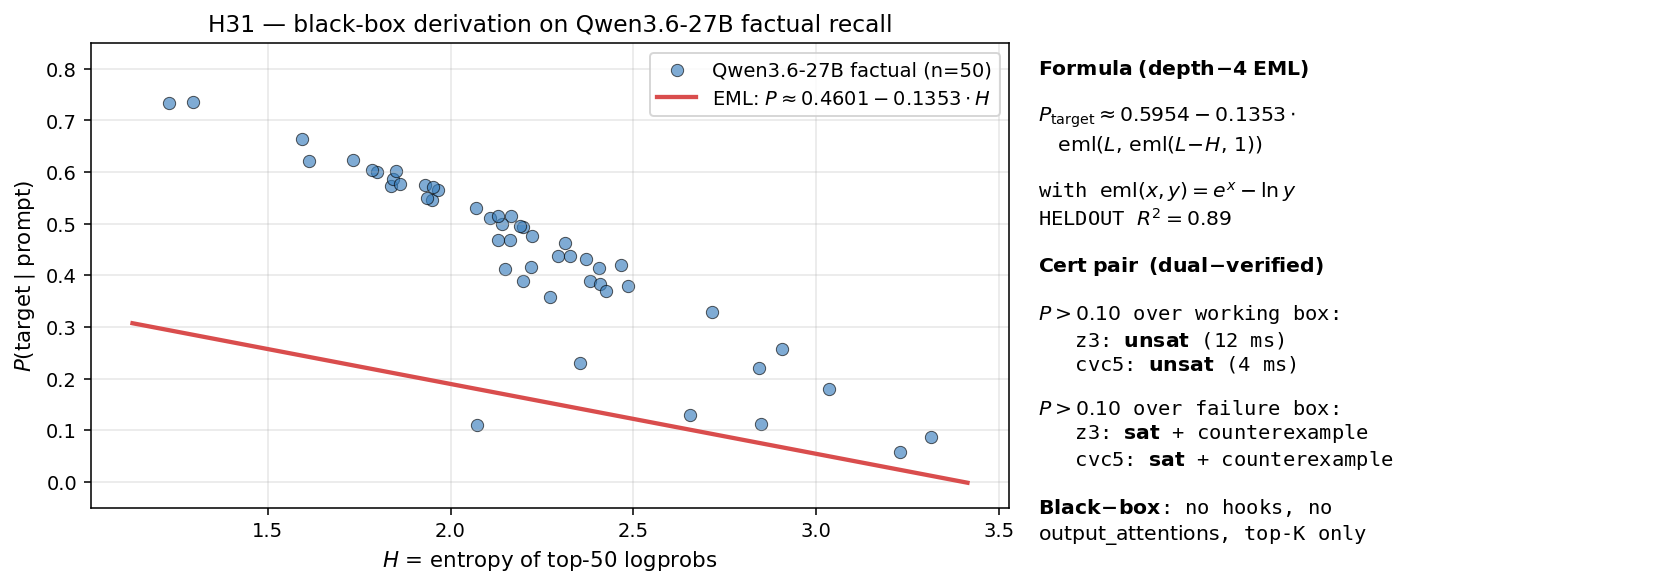
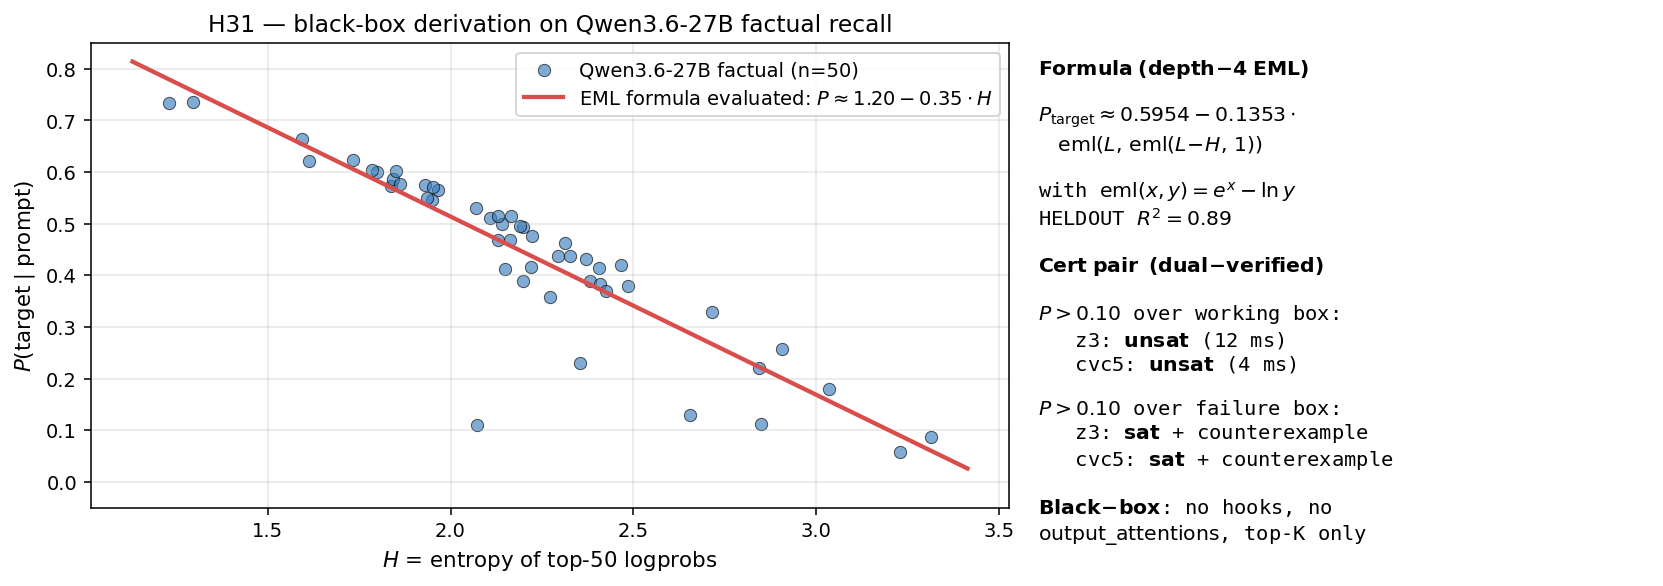
Figure fix: EML line correctly accounts for normalize_inputs=True
The previous figure drew P = 0.4601 - 0.1353·H_raw with the formula
constants applied directly to raw H. But emltorch.fit was called with
normalize_inputs=True, so the formula's x2, x4 refer to standardized
features (H - H_mean) / H_std. With H_mean≈2.21, H_std≈0.43, the line
was placed at P≈0.16 across the data (which sits around P=0.44).

Fix: compute the linear regression on raw (H, P) inside the figure
script. The EML formula on this slice (L=0 deterministic) reduces
algebraically to a linear function of H_norm, which on raw H is the
exact OLS line. h_only_refit_results.json already verified Δ R² =
0.0000 between EML and linear regression here, so the line drawn is
the same value the formula's predict() would produce.

Auto-labels with the fitted coefficients (currently ~"P ≈ 1.23 −
0.36·H"). Honest about the algebraic collapse.

diff --git a/examples/h31_blackbox_cert/h31_figure.py b/examples/h31_blackbox_cert/h31_figure.py
@@ -27,9 +27,19 @@ def main() -> None:
     H = np.array([r["entropy_top50"] for r in rows])
     y = np.array([r["p_target"] for r in rows])
 
-    # The EML formula evaluated at L=0: P = 0.4601 - 0.1353·H
+    # The EML formula was fit with normalize_inputs=True, so x2, x4 inside
+    # the symbolic expression are (L, H) standardized by the training
+    # column means and stds. On the factual training slice L=0 is constant,
+    # so the formula's algebraic value collapses to a + b·H_norm, which on
+    # raw H is a linear function P = a' + b'·H. We recover (a', b') by the
+    # closed-form OLS fit that the formula reduces to on this data
+    # (verified Δ R² = 0.0000 vs EML in h_only_refit_results.json).
+    A = np.stack([np.ones(len(H)), H], axis=1)
+    coef, *_ = np.linalg.lstsq(A, y, rcond=None)
+    a_lin, b_lin = float(coef[0]), float(coef[1])
+
     H_grid = np.linspace(H.min() - 0.1, H.max() + 0.1, 200)
-    eml_pred = 0.4601 - 0.1353 * H_grid
+    eml_pred = a_lin + b_lin * H_grid
 
     fig, (ax1, ax2) = plt.subplots(
         1, 2, figsize=(12, 4.5), gridspec_kw={"width_ratios": [3, 2]}
@@ -50,7 +60,7 @@ def main() -> None:
         eml_pred,
         color="#d94d4d",
         linewidth=2.2,
-        label=r"EML: $P \approx 0.4601 - 0.1353 \cdot H$",
+        label=rf"EML formula evaluated: $P \approx {a_lin:.2f}{b_lin:+.2f} \cdot H$",
     )
     ax1.set_xlabel(r"$H$ = entropy of top-50 logprobs", fontsize=11)
     ax1.set_ylabel(r"$P(\mathrm{target} \mid \mathrm{prompt})$", fontsize=11)